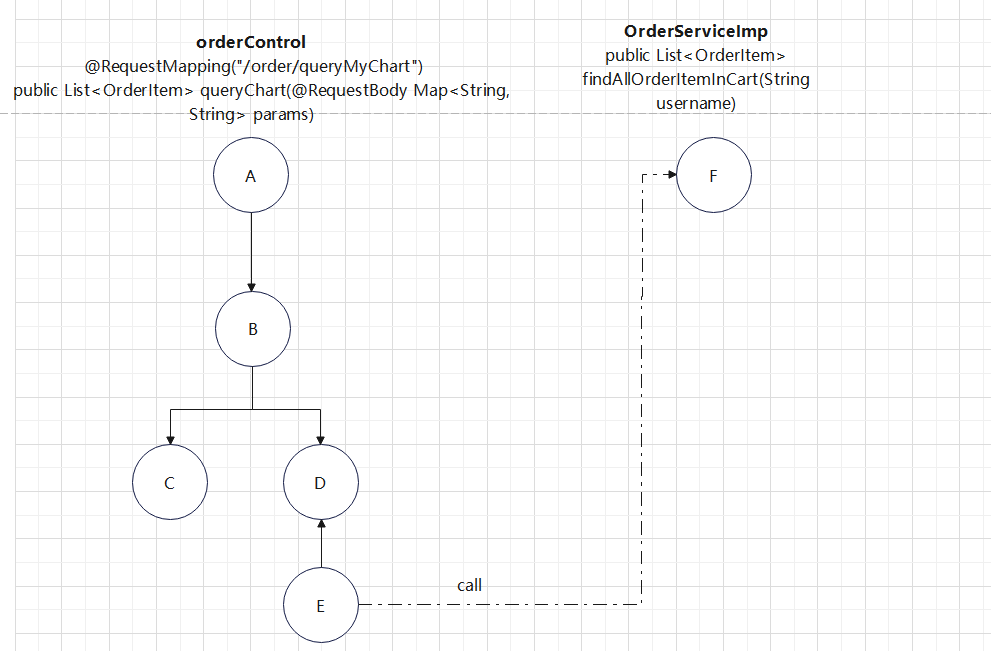
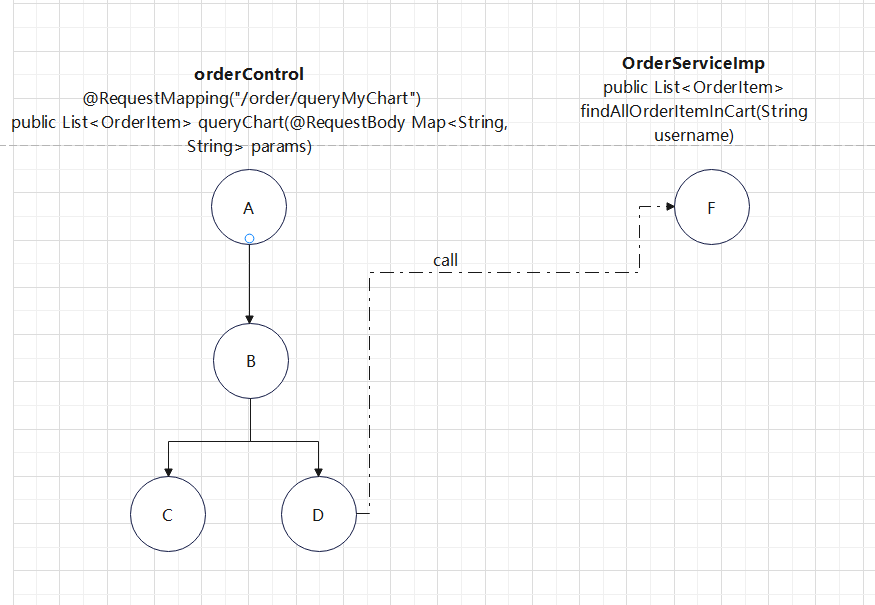
解决了我函数代码部分没有覆盖的问题，新增了一张数据流图

diff --git a/src/test/java/com/zzq/ebook/serviceImp/OrderServiceImpTest.java b/src/test/java/com/zzq/ebook/serviceImp/OrderServiceImpTest.java
@@ -29,6 +29,7 @@ import org.springframework.beans.factory.annotation.Autowired;
 import java.sql.Timestamp;
 import java.util.ArrayList;
 import java.util.List;
+import java.util.Objects;
 import java.util.Random;
 
 import static org.junit.jupiter.api.Assertions.*;
@@ -84,7 +85,11 @@ class OrderServiceImpTest {
             //如果超过容量，返回null
             assertNull(orderService.addOneOrderItemToChart(username,bookID,buyNum));
         }
-        else if (username == "user2"){
+        else if (Objects.equals(username, "user2")){
+            //如果购物车里面没有这本书，返回一个新的orderItem
+            System.out.println("user2");
+            Mockito.when(orderItemDao.checkUserOrderItemByID(username,bookID)).thenReturn(null);
+//            Mockito.when(orderItemDao.addOneOrderItem(orderItem)).thenReturn(orderItem);
             assertNotNull(orderService.addOneOrderItemToChart(username,bookID,buyNum));
         }else {
             Mockito.when(orderItemDao.checkUserOrderItemByID(username,bookID)).thenReturn(orderItem);

diff --git a/src/main/java/com/zzq/ebook/serviceImp/OrderServiceImp.java b/src/main/java/com/zzq/ebook/serviceImp/OrderServiceImp.java
@@ -62,7 +62,6 @@ public class OrderServiceImp implements OrderService {
         newItem.setBookID(bookID);
         newItem.setBuynum(buynum);
         newItem.setPayprice(itemAllPrice);
-
         // 获取时间戳操作！
         Timestamp timenow = new Timestamp(System.currentTimeMillis());
         newItem.setCreate_Itemtime(timenow);
